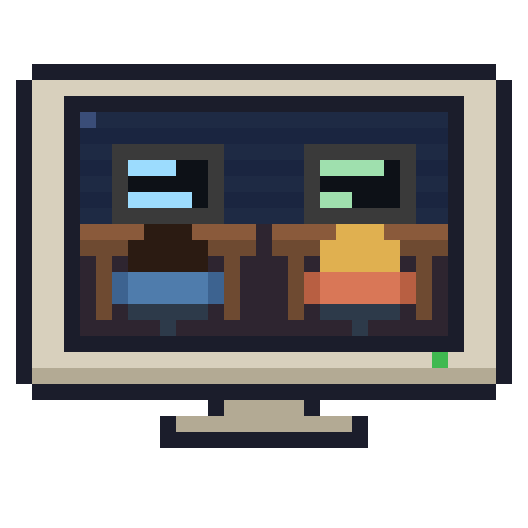
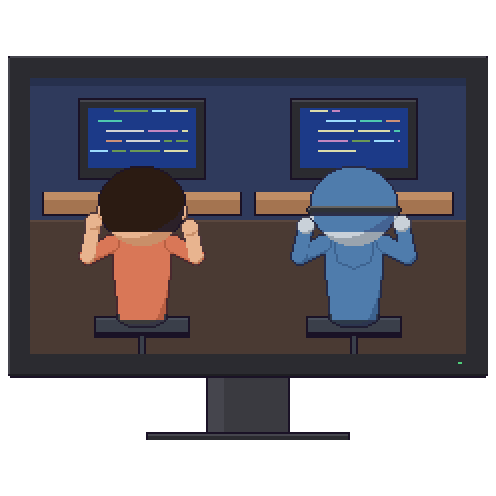
Rebrand

diff --git a/index.html b/index.html
@@ -3,8 +3,14 @@
   <head>
     <meta charset="utf-8" />
     <meta name="viewport" content="width=device-width, initial-scale=1" />
-    <title>Agentarium</title>
+    <title>codeArIum</title>
     <link rel="icon" href="icon.png" />
+    <link rel="preconnect" href="https://fonts.googleapis.com" />
+    <link rel="preconnect" href="https://fonts.gstatic.com" crossorigin />
+    <link
+      rel="stylesheet"
+      href="https://fonts.googleapis.com/css2?family=JetBrains+Mono:wght@800&display=swap"
+    />
     <style>
       :root {
         --wall: #3d4460;
@@ -12,6 +18,7 @@
         --muted: #b9bfd3;
         --code: #262b3f;
         --accent: #f2c14e;
+        --cream: #fffaf0;
       }
       body {
         margin: 0;
@@ -24,14 +31,30 @@
         margin: 0 auto;
         padding: 48px 16px 64px;
       }
-      .logo-container {
-        display: flex;
-        justify-content: center;
-      }
       .logo {
+        display: flex;
+        flex-direction: column;
+        align-items: center;
+      }
+      .mark {
         width: 100%;
-        max-width: 560px;
+        max-width: 320px;
         image-rendering: pixelated;
+      }
+      h1 {
+        margin: 8px 0 0;
+        font: 800 clamp(40px, 12vw, 72px) / 1 'JetBrains Mono', ui-monospace, monospace;
+        color: var(--cream);
+      }
+      h1 span {
+        background: linear-gradient(#9ad0ff, #3b8eea, #7a5ce0, #b05ce0);
+        -webkit-background-clip: text;
+        background-clip: text;
+        color: transparent;
+      }
+      .tagline {
+        text-align: center;
+        font-style: italic;
       }
       h2 {
         margin-top: 40px;
@@ -55,9 +78,11 @@
   </head>
   <body>
     <main>
-      <div class="logo-container">
-        <img class="logo" src="logo.png" alt="Agentarium" />
+      <div class="logo">
+        <img class="mark" src="icon.png" alt="" />
+        <h1>code<span>A</span>r<span>I</span>um</h1>
       </div>
+      <p class="tagline">Bring your AI coding environment to life.</p>
       <p>
         A pixel-art office for your screen. Every running Claude Code session
         is a character at a desk: they face the monitor while working, and turn
@@ -65,11 +90,11 @@
       </p>
 
       <h2>macOS and Linux</h2>
-      <pre>curl -fsSL https://agentarium.adammorgan.ca/install.sh | sh</pre>
+      <pre>curl -fsSL https://codearium.dev/install.sh | sh</pre>
 
       <h2>Windows</h2>
       <p>In PowerShell:</p>
-      <pre>irm https://agentarium.adammorgan.ca/install.ps1 | iex</pre>
+      <pre>irm https://codearium.dev/install.ps1 | iex</pre>
     </main>
   </body>
 </html>

diff --git a/README.md b/README.md
@@ -1,8 +1,8 @@
-# Agentarium releases
+# codeArIum releases
 
-Builds of [Agentarium](https://agentarium.adammorgan.ca).
+Builds of [codeArIum](https://codearium.dev).
 
 ## Install
 
-- macOS and Linux: `curl -fsSL https://agentarium.adammorgan.ca/install.sh | sh`
-- Windows (PowerShell): `irm https://agentarium.adammorgan.ca/install.ps1 | iex`
+- macOS and Linux: `curl -fsSL https://codearium.dev/install.sh | sh`
+- Windows (PowerShell): `irm https://codearium.dev/install.ps1 | iex`
